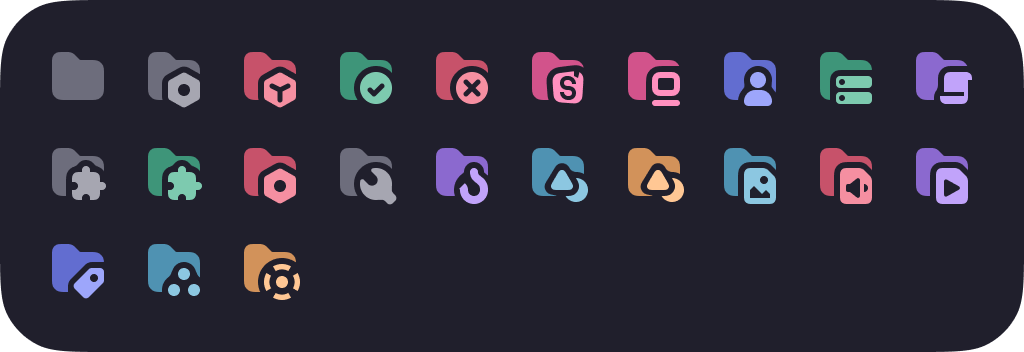
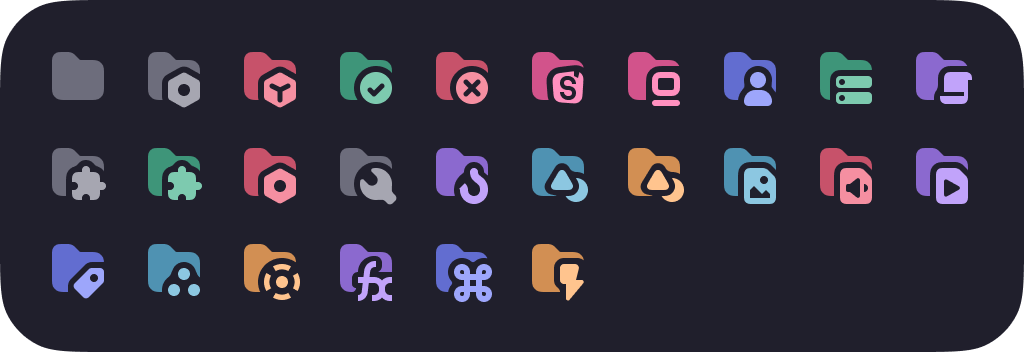
feat: design new folders (#9)

Changed region(s): [[0.3125, 0.6875, 0.5938, 0.875]]

diff --git a/README.md b/README.md
@@ -30,7 +30,7 @@ You can find my icons on the [VS Code Marketplace](https://marketplace.visualstu
 
 ## 🙌 Requests
 
-If you have any icon requests, please [open an issue](https://github.com/littensy/charmed-icons/issues/new) with the `file-icon` or `folder-icon` label.
+If you have any icon requests, please [open an issue](https://github.com/littensy/charmed-icons/issues/new).
 
 Ping me on Discord `@littensy` for a quicker response!!
 
